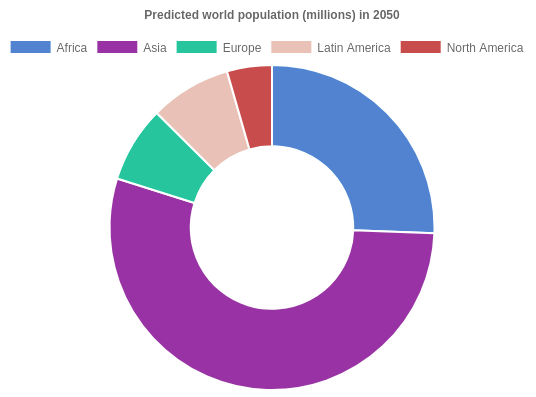
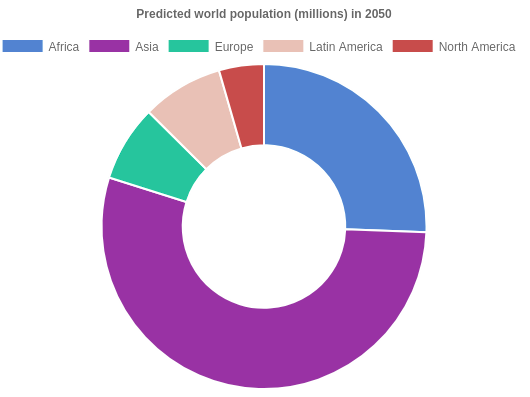
edit doughnut  chart sample in readme

diff --git a/README.md b/README.md
@@ -279,10 +279,52 @@ export default class App extends Component {
 
     return (
       <div>
-        <Radar data={this.state.polarAreaChartData} 
-               options={chartOptions} 
-               width={800} 
-               height={400} />
+        <PolarArea data={this.state.polarAreaChartData} 
+                   options={chartOptions} 
+                   width={800} 
+                   height={400} />
+      </div>
+    )
+  }
+}
+```
+
+### Doughnut chart
+
+![Doughnut chart](https://github.com/codefacebook/react-chartjsx/blob/master/images/doughnut-chart.png)
+
+```
+import { Doughnut } from 'react-chartjsx'
+
+export default class App extends Component {
+  state = {
+    doughnutChartData: {
+      labels: ["Africa", "Asia", "Europe", "Latin America", "North America"],
+      datasets: [
+        {
+          label: "Population (millions)",
+          backgroundColor: ["#3e95cd", "#8e5ea2","#3cba9f","#e8c3b9","#c45850"],
+          data: [2478,5267,734,784,433]
+        }
+      ]
+    }
+  }
+
+  constructor(props) {
+    super(props)
+  }
+
+  render() {
+    const chartOptions = {
+      responsive: false
+    }
+
+    return (
+      <div>
+        <Doughnut data={this.state.doughnutChartData} 
+                  options={chartOptions} 
+                  width={800} 
+                  height={400} />
       </div>
     )
   }
